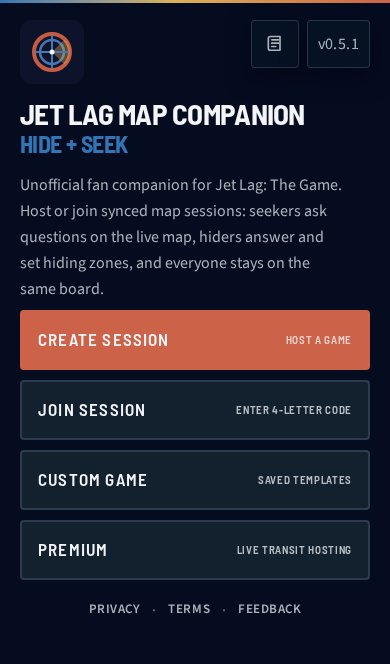
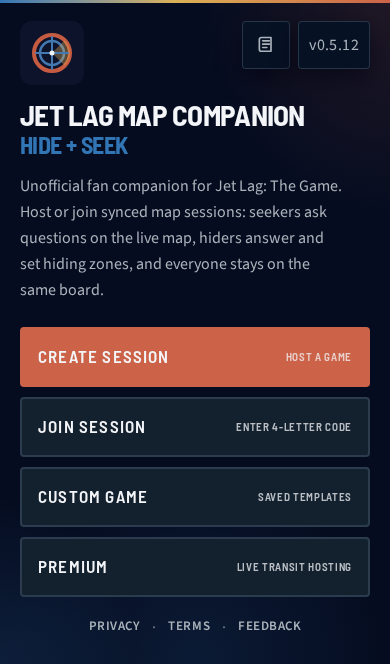
feat(home): center entry stack and add premium sign-out (#46)
* feat(home): center entry stack and add premium sign-out

* test(e2e): refresh home visual baseline for centered layout

diff --git a/src/components/billing/PremiumSignInGate.test.tsx b/src/components/billing/PremiumSignInGate.test.tsx
@@ -1,0 +1,106 @@
+import { fireEvent, screen, waitFor } from "@testing-library/react";
+import { beforeEach, describe, expect, it, vi } from "vitest";
+import { PremiumSignInGate } from "./PremiumSignInGate";
+import { renderWithRouter } from "../../test/renderWithRouter";
+
+const mockSignOutToAnonymous = vi.fn();
+const mockCompletePremiumEmailSignInLink = vi.fn();
+const mockCompleteOAuthRedirectIfPending = vi.fn();
+const mockEnsureAnonymousUser = vi.fn();
+const mockRecoverPremiumEntitlements = vi.fn();
+
+let mockUser: {
+  uid: string;
+  isAnonymous: boolean;
+  email?: string | null;
+  displayName?: string | null;
+} | null = null;
+let mockAuthReady = true;
+
+vi.mock("../../services/core/accountAuth", async (importOriginal) => {
+  const actual = await importOriginal<typeof import("../../services/core/accountAuth")>();
+  return {
+    ...actual,
+    completePremiumEmailSignInLink: (...args: unknown[]) =>
+      mockCompletePremiumEmailSignInLink(...args),
+    completeOAuthRedirectIfPending: (...args: unknown[]) =>
+      mockCompleteOAuthRedirectIfPending(...args),
+    signOutToAnonymous: (...args: unknown[]) => mockSignOutToAnonymous(...args),
+  };
+});
+
+vi.mock("../../services/core/firebase", () => ({
+  ensureAnonymousUser: (...args: unknown[]) => mockEnsureAnonymousUser(...args),
+  getFirebaseAuth: () => ({ currentUser: mockUser }),
+  isFirebaseConfigured: () => true,
+}));
+
+vi.mock("../../services/billing/premiumBilling", () => ({
+  recoverPremiumEntitlements: (...args: unknown[]) =>
+    mockRecoverPremiumEntitlements(...args),
+}));
+
+vi.mock("../../hooks/billing/usePermanentAuthUser", () => ({
+  usePermanentAuthUser: () => ({
+    user: mockUser,
+    isPermanent: mockUser != null && !mockUser.isAnonymous,
+    authReady: mockAuthReady,
+  }),
+}));
+
+vi.mock("firebase/auth", () => ({
+  isSignInWithEmailLink: () => false,
+}));
+
+describe("PremiumSignInGate", () => {
+  beforeEach(() => {
+    vi.clearAllMocks();
+    mockUser = {
+      uid: "permanent-1",
+      isAnonymous: false,
+      email: "[email redacted]",
+    };
+    mockAuthReady = true;
+    mockEnsureAnonymousUser.mockResolvedValue({ uid: "anon-1", isAnonymous: true });
+    mockCompletePremiumEmailSignInLink.mockResolvedValue(null);
+    mockCompleteOAuthRedirectIfPending.mockResolvedValue(null);
+    mockRecoverPremiumEntitlements.mockResolvedValue(false);
+    mockSignOutToAnonymous.mockResolvedValue(undefined);
+  });
+
+  it("shows the signed-in account strip and children for permanent users", () => {
+    renderWithRouter(
+      <PremiumSignInGate>
+        <p>Premium content</p>
+      </PremiumSignInGate>,
+    );
+
+    expect(screen.getByText(/Signed in as [email redacted]/i)).toBeInTheDocument();
+    expect(screen.getByRole("button", { name: "Sign out" })).toBeInTheDocument();
+    expect(screen.getByText("Premium content")).toBeInTheDocument();
+  });
+
+  it("signs out to anonymous and hides children after sign out", async () => {
+    const { rerender } = renderWithRouter(
+      <PremiumSignInGate>
+        <p>Premium content</p>
+      </PremiumSignInGate>,
+    );
+
+    fireEvent.click(screen.getByRole("button", { name: "Sign out" }));
+
+    await waitFor(() => {
+      expect(mockSignOutToAnonymous).toHaveBeenCalledTimes(1);
+    });
+
+    mockUser = { uid: "anon-1", isAnonymous: true };
+    rerender(
+      <PremiumSignInGate>
+        <p>Premium content</p>
+      </PremiumSignInGate>,
+    );
+
+    expect(screen.queryByText("Premium content")).not.toBeInTheDocument();
+    expect(screen.getByRole("button", { name: /Continue with Google/i })).toBeInTheDocument();
+  });
+});

diff --git a/src/routes/Home.tsx b/src/routes/Home.tsx
@@ -49,7 +49,7 @@ export function Home() {
 
   if (isFirebaseConfigured() && !authBootstrapReady) {
     return (
-      <EntryScreenLayout viewport viewportLayout="between">
+      <EntryScreenLayout viewport viewportLayout="center">
         <div
           className="route-fallback-skeleton route-loading-enter min-h-[40dvh]"
           aria-busy="true"
@@ -164,53 +164,54 @@ export function Home() {
 
   return (
     <>
-      <EntryScreenLayout viewport viewportLayout="between">
-        <div className="shrink-0 space-y-4">
-          <div className="flex items-start justify-between gap-3">
-            <AppLogo variant="mark" size="lg" className="shrink-0" />
-            <div className="flex shrink-0 items-center gap-2">
-              {showAdminEntry ? (
+      <EntryScreenLayout viewport viewportLayout="center">
+        <div className="flex w-full flex-col gap-6">
+          <div className="shrink-0 space-y-4">
+            <div className="flex items-start justify-between gap-3">
+              <AppLogo variant="mark" size="lg" className="shrink-0" />
+              <div className="flex shrink-0 items-center gap-2">
+                {showAdminEntry ? (
+                  <Link
+                    to="/admin"
+                    className="hud-chrome inline-flex size-[2.75rem] items-center justify-center text-ink-muted"
+                    aria-label="Admin — live sessions"
+                  >
+                    <HudAdminIcon className="size-5" />
+                  </Link>
+                ) : null}
                 <Link
-                  to="/admin"
+                  to="/tutorial"
                   className="hud-chrome inline-flex size-[2.75rem] items-center justify-center text-ink-muted"
-                  aria-label="Admin — live sessions"
+                  aria-label="Open tutorial"
                 >
-                  <HudAdminIcon className="size-5" />
+                  <HudGuideIcon className="size-5" />
                 </Link>
-              ) : null}
-              <Link
-                to="/tutorial"
-                className="hud-chrome inline-flex size-[2.75rem] items-center justify-center text-ink-muted"
-                aria-label="Open tutorial"
-              >
-                <HudGuideIcon className="size-5" />
-              </Link>
-              <MotionPressable
-                type="button"
-                onClick={() => setChangelogOpen(true)}
-                className="hud-chrome shrink-0 px-2.5 py-1.5 font-mono text-xs font-bold tracking-wide text-ink-muted"
-                aria-label={`Version ${APP_VERSION}. Open changelog`}
-              >
-                v{APP_VERSION}
-              </MotionPressable>
+                <MotionPressable
+                  type="button"
+                  onClick={() => setChangelogOpen(true)}
+                  className="hud-chrome shrink-0 px-2.5 py-1.5 font-mono text-xs font-bold tracking-wide text-ink-muted"
+                  aria-label={`Version ${APP_VERSION}. Open changelog`}
+                >
+                  v{APP_VERSION}
+                </MotionPressable>
+              </div>
             </div>
-          </div>
-          <div className="space-y-1">
-            <h1 className="font-display text-balance text-[clamp(1.75rem,7.5vw,3rem)] font-bold uppercase leading-[0.95] tracking-tight text-ink">
-              {LEGAL_APP_NAME}
-            </h1>
-            <p className="font-display text-pretty text-[clamp(1.5rem,6vw,2.25rem)] font-bold uppercase leading-none tracking-tight text-brand-blue">
-              Hide + Seek
+            <div className="space-y-1">
+              <h1 className="font-display text-balance text-[clamp(1.75rem,7.5vw,3rem)] font-bold uppercase leading-[0.95] tracking-tight text-ink">
+                {LEGAL_APP_NAME}
+              </h1>
+              <p className="font-display text-pretty text-[clamp(1.5rem,6vw,2.25rem)] font-bold uppercase leading-none tracking-tight text-brand-blue">
+                Hide + Seek
+              </p>
+            </div>
+            <p className="max-w-sm text-pretty text-base leading-relaxed text-ink-muted">
+              Unofficial fan companion for Jet Lag: The Game. Host or join synced map
+              sessions: seekers ask questions on the live map, hiders answer and set
+              hiding zones, and everyone stays on the same board.
             </p>
           </div>
-          <p className="max-w-sm text-pretty text-base leading-relaxed text-ink-muted">
-            Unofficial fan companion for Jet Lag: The Game. Host or join synced map
-            sessions: seekers ask questions on the live map, hiders answer and set
-            hiding zones, and everyone stays on the same board.
-          </p>
-        </div>
 
-        <div className="home-enter-actions min-h-0 flex-1 space-y-2.5 overflow-y-auto overscroll-y-contain">
+          <div className="home-enter-actions space-y-2.5">
           {session ? (
             <MotionPressable
               type="button"
@@ -327,6 +328,7 @@ export function Home() {
             </Link>
           </nav>
           {continueError ? <InlineError>{continueError}</InlineError> : null}
+          </div>
         </div>
       </EntryScreenLayout>
 

diff --git a/src/components/billing/PremiumSignInGate.tsx b/src/components/billing/PremiumSignInGate.tsx
@@ -10,6 +10,7 @@ import {
   completePremiumEmailSignInLink,
   isPermanentUser,
   sendPremiumEmailSignInLink,
+  signOutToAnonymous,
 } from "../../services/core/accountAuth";
 import {
   ensureAnonymousUser,
@@ -37,6 +38,7 @@ export function PremiumSignInGate({
   const [error, setError] = useState<string | null>(null);
   const [recoveryNote, setRecoveryNote] = useState<string | null>(null);
   const [completingEmailLink, setCompletingEmailLink] = useState(false);
+  const [signingOut, setSigningOut] = useState(false);
 
   const handleSignedIn = useCallback(async () => {
     setError(null);
@@ -102,6 +104,24 @@ export function PremiumSignInGate({
     await handleSignedIn();
   }, [handleSignedIn]);
 
+  const handleSignOut = async () => {
+    setSigningOut(true);
+    setError(null);
+    setRecoveryNote(null);
+
+    try {
+      await signOutToAnonymous();
+    } catch (nextError) {
+      setError(
+        nextError instanceof Error
+          ? nextError.message
+          : "Could not sign out.",
+      );
+    } finally {
+      setSigningOut(false);
+    }
+  };
+
   const handleEmailLink = async () => {
     setBusyAction("email");
     setError(null);
@@ -135,7 +155,28 @@ export function PremiumSignInGate({
   }
 
   if (isPermanent) {
-    return children ? <>{children}</> : null;
+    const accountLabel =
+      user?.email ?? user?.displayName ?? "your account";
+
+    return (
+      <div className="space-y-3">
+        <div className="flex flex-wrap items-center justify-between gap-2">
+          <p className="text-sm text-ink-muted">
+            Signed in as {accountLabel}
+          </p>
+          <button
+            type="button"
+            disabled={signingOut}
+            onClick={() => void handleSignOut()}
+            className="home-feedback-link min-h-11 px-2 disabled:opacity-50"
+          >
+            {signingOut ? "Signing out…" : "Sign out"}
+          </button>
+        </div>
+        {error ? <InlineError>{error}</InlineError> : null}
+        {children ?? null}
+      </div>
+    );
   }
 
   return (

diff --git a/src/services/core/accountAuth.ts b/src/services/core/accountAuth.ts
@@ -13,15 +13,14 @@ import {
   signInWithEmailLink,
   signInWithPopup,
   signInWithRedirect,
+  signOut,
   type AuthCredential,
   type AuthProvider,
   type User,
 } from "firebase/auth";
-import { getFirebaseAuth } from "./firebase";
+import { getFirebaseAuth, ensureAnonymousUser } from "./firebase";
 
 export const EMAIL_LINK_STORAGE_KEY = "premiumEmailForSignIn";
-
-/** Thrown when OAuth continues via full-page redirect (popup blocked). */
 export class OAuthRedirectInProgressError extends Error {
   constructor() {
     super("OAuth redirect in progress");
@@ -31,6 +30,12 @@ export class OAuthRedirectInProgressError extends Error {
 
 export function isOAuthRedirectInProgress(error: unknown): boolean {
   return error instanceof OAuthRedirectInProgressError;
+}
+
+export async function signOutToAnonymous(): Promise<void> {
+  const auth = getFirebaseAuth();
+  await signOut(auth);
+  await ensureAnonymousUser();
 }
 
 /** Flip when Apple Sign-In is configured in Firebase + Apple Developer. */

diff --git a/src/components/ui/EntryScreenLayout.tsx b/src/components/ui/EntryScreenLayout.tsx
@@ -5,8 +5,8 @@ interface EntryScreenLayoutProps {
   justify?: "between" | "center" | "start";
   /** Locks content to one viewport with no page scroll (tutorial). */
   viewport?: boolean;
-  /** Viewport layout: tutorial hub uses start; home uses between. */
-  viewportLayout?: "start" | "between";
+  /** Viewport layout: tutorial hub uses start; home uses between or center. */
+  viewportLayout?: "start" | "between" | "center";
 }
 
 export function EntryScreenLayout({
@@ -27,7 +27,9 @@ export function EntryScreenLayout({
   const viewportClass = viewport
     ? viewportLayout === "between"
       ? "home-poster-viewport h-[100dvh] max-h-[100dvh] min-h-0 overflow-hidden justify-between gap-2"
-      : "home-poster-viewport h-[100dvh] max-h-[100dvh] min-h-0 overflow-hidden justify-start gap-2"
+      : viewportLayout === "center"
+        ? "home-poster-viewport h-[100dvh] max-h-[100dvh] min-h-0 overflow-y-auto overscroll-y-contain justify-center gap-6"
+        : "home-poster-viewport h-[100dvh] max-h-[100dvh] min-h-0 overflow-hidden justify-start gap-2"
     : "";
 
   const minHeightClass = viewport ? "min-h-0" : "min-h-[100dvh]";

diff --git a/src/routes/Home.test.tsx b/src/routes/Home.test.tsx
@@ -140,4 +140,12 @@ describe("Home", () => {
       }),
     ).toHaveAttribute("href", "/feedback");
   });
+
+  it("centers the home entry stack in the viewport layout", () => {
+    renderWithRouter(<Home />);
+
+    const main = screen.getByRole("main");
+    expect(main.className).toContain("justify-center");
+    expect(main.className).toContain("overflow-y-auto");
+  });
 });

diff --git a/src/domain/device/changelog.ts b/src/domain/device/changelog.ts
@@ -22,6 +22,7 @@ export const CHANGELOG: ChangelogEntry[] = [
           "Firebase: App Check reCAPTCHA loads under content security policy.",
           "Premium: Google sign-in works again under enforced content security policy.",
           "Premium: Google sign-in falls back to full-page redirect when the popup is blocked.",
+          "Premium: sign out from Premium, Create session, and Admin sign-in gates.",
           "Sentry: error reports use a first-party tunnel so browser blockers are less likely to drop them.",
           "Map sync: Retry on the sync rail replays queued map pins after a failed upload.",
           "Map sync: avoid update-depth loop when leaving a session.",

diff --git a/CHANGELOG.md b/CHANGELOG.md
@@ -9,6 +9,7 @@
 - Firebase: App Check reCAPTCHA loads under content security policy.
 - Premium: Google sign-in works again under enforced content security policy.
 - Premium: Google sign-in falls back to full-page redirect when the popup is blocked.
+- Premium: sign out from Premium, Create session, and Admin sign-in gates.
 - Sentry: error reports use a first-party tunnel so browser blockers are less likely to drop them.
 - Map sync: Retry on the sync rail replays queued map pins after a failed upload.
 - Map sync: avoid update-depth loop when leaving a session.